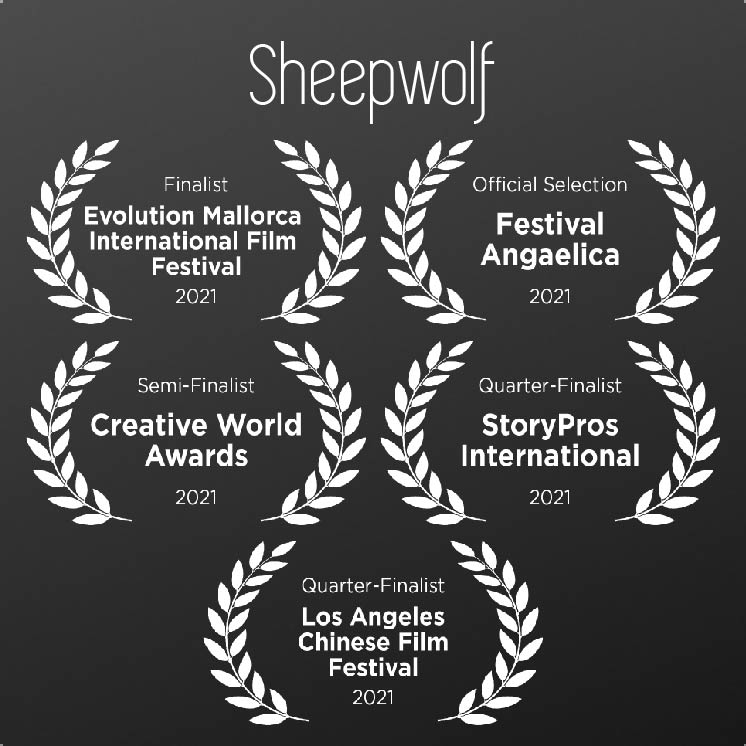
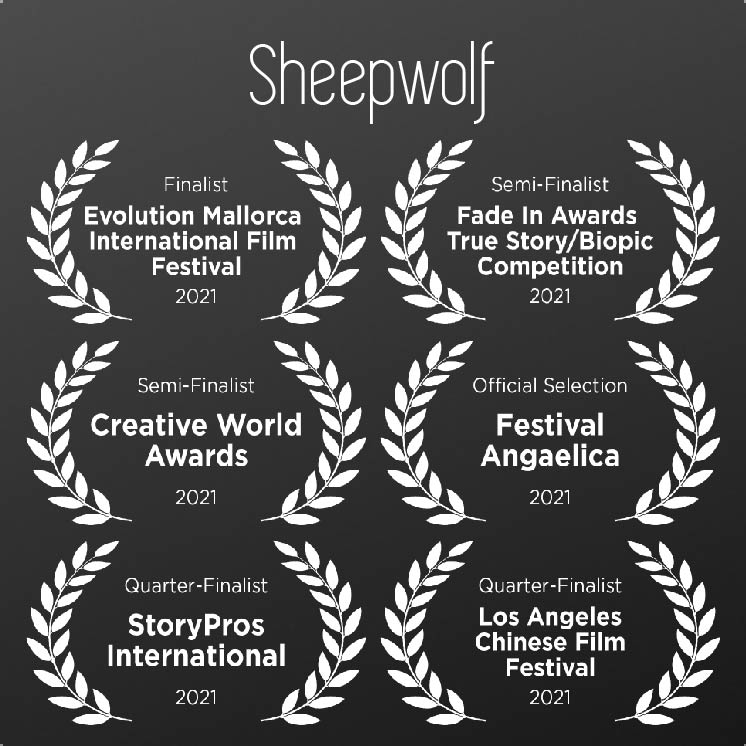
12/31 23:23

diff --git a/index.html b/index.html
@@ -177,9 +177,11 @@ body, html {
                 </h6>
                 <img src="//zilem.studio/images/EMIFF_LaurelW.png" width='138' height='75'>
                 &nbsp;&nbsp;
-                <img src="//zilem.studio/images/Angaelica_LaurelW.png" width='138' height='75'>
+                <img src="//zilem.studio/images/FIA_LaurelW.png" width='138' height='75'>
                 &nbsp;&nbsp;
                 <img src="//zilem.studio/images/CWA_LaurelW.png" width='138' height='75'>
+                &nbsp;&nbsp;
+                <img src="//zilem.studio/images/Angaelica_LaurelW.png" width='138' height='75'>
                 &nbsp;&nbsp;
                 <img src="//zilem.studio/images/StoryPros_LaurelW.png" width='138' height='75'>
                 &nbsp;&nbsp;

diff --git a/script/Sheepwolf/index.html b/script/Sheepwolf/index.html
@@ -147,10 +147,12 @@ body, html {
       <br>
       <img src="//zilem.studio/images/EMIFF_Laurel.png" width='138' height='75'>
       &nbsp;&nbsp;
-      <img src="//zilem.studio/images/Angaelica_Laurel.png" width='138' height='75'>
+      <img src="//zilem.studio/images/FIA_Laurel.png" width='138' height='75'>
       &nbsp;&nbsp;
       <img src="//zilem.studio/images/CWA_Laurel.png" width='138' height='75'>
       &nbsp;&nbsp;
+      <img src="//zilem.studio/images/Angaelica_Laurel.png" width='138' height='75'>
+      &nbsp;&nbsp;    
       <img src="//zilem.studio/images/StoryPros_Laurel.png" width='138' height='75'>
       &nbsp;&nbsp;
       <img src="//zilem.studio/images/LACFF_Laurel.png" width='138' height='75'>
